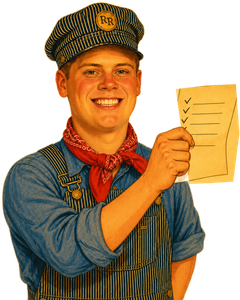
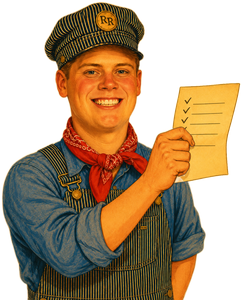
v0.9.851: fix mascot cutout - checklist paper now traced to its drawn outline; cache bump mca-v862
Claude-Session: https://claude.ai/code/session_01PwWu5K5uY8QeDTViwPaeBu

diff --git a/app/index.html b/app/index.html
@@ -20,9 +20,9 @@
   <link rel="manifest" href="manifest.json">
 <meta name="viewport" content="width=device-width, initial-scale=1.0, viewport-fit=cover">
 <title>The Rail Roster — Postwar Train Collection Tracker</title>
-<link rel="stylesheet" href="./app.css?v=850">
-<link rel="stylesheet" href="./tutorial.css?v=850">
-<link rel="stylesheet" href="./vault-styles.css?v=850">
+<link rel="stylesheet" href="./app.css?v=851">
+<link rel="stylesheet" href="./tutorial.css?v=851">
+<link rel="stylesheet" href="./vault-styles.css?v=851">
   <link rel="stylesheet" href="https://cdnjs.cloudflare.com/ajax/libs/cropperjs/1.6.1/cropper.min.css">
 </head>
 <body>
@@ -688,66 +688,66 @@ document.addEventListener('touchmove', function(){}, {passive: true});
 <!-- identify-modal is built dynamically by wizard.js -->
 </div>
 
-<script src="./config.js?v=850"></script>
-<script src="./cott-anchors.js?v=850"></script>
-<script src="./type-groups.js?v=850"></script>
-<script src="./back-stack.js?v=850"></script>
-<script src="./road-typeahead.js?v=850"></script>
-<script src="./a11y-config.js?v=850"></script>
-<script src="./a11y.js?v=850"></script>
-<script src="./wizard-utils.js?v=850"></script>
-<script src="./app.js?v=850"></script>
-<script src="./sheets.js?v=850"></script>
-<script src="./drive.js?v=850"></script>
-<script src="./backup.js?v=850"></script>
-<script src="./browse.js?v=850"></script>
-<script src="./dashboard.js?v=850"></script>
-<script src="./sheet-builder.js?v=850"></script>
+<script src="./config.js?v=851"></script>
+<script src="./cott-anchors.js?v=851"></script>
+<script src="./type-groups.js?v=851"></script>
+<script src="./back-stack.js?v=851"></script>
+<script src="./road-typeahead.js?v=851"></script>
+<script src="./a11y-config.js?v=851"></script>
+<script src="./a11y.js?v=851"></script>
+<script src="./wizard-utils.js?v=851"></script>
+<script src="./app.js?v=851"></script>
+<script src="./sheets.js?v=851"></script>
+<script src="./drive.js?v=851"></script>
+<script src="./backup.js?v=851"></script>
+<script src="./browse.js?v=851"></script>
+<script src="./dashboard.js?v=851"></script>
+<script src="./sheet-builder.js?v=851"></script>
 <script src="https://accounts.google.com/gsi/client" async defer></script>
-<script src="./wizard-pdlookup.js?v=850"></script>
-<script src="./wizard-suggestions.js?v=850"></script>
-<script src="./wizard-steps.js?v=850"></script>
-<script src="./wizard.js?v=850"></script>
-<script src="./wizard-photos.js?v=850"></script>
-<script src="./photo-crop.js?v=850"></script>
-<script src="./variation-picker.js?v=850"></script>
-<script src="./wizard-pickers.js?v=850"></script>
-<script src="./wizard-handlers.js?v=850"></script>
-<script src="./wizard-quickentry.js?v=850"></script>
-<script src="./wizard-save.js?v=850"></script>
-<script src="./app-misc.js?v=850"></script>
-<script src="./app-auth.js?v=850"></script>
-<script src="./app-setup.js?v=850"></script>
-<script src="./app-data.js?v=850"></script>
-<script src="./app-pages.js?v=850"></script>
-<script src="./app-collection.js?v=850"></script>
-<script src="./barcode.js?v=850"></script>
-<script src="./tutorial.js?v=850"></script>
-<script src="./tutorial-gifs-config.js?v=850"></script>
-<script src="./migration-config.js?v=850"></script>
-<script src="./migration-ui.js?v=850"></script>
-<script src="./onboarding-config.js?v=850"></script>
-<script src="./gmail-help.js?v=850"></script>
-<script src="./onboarding.js?v=850"></script>
-<script src="./vault.js?v=850"></script>
-<script src="./research.js?v=850"></script>
-<script src="./ai-id.js?v=850"></script>
-<script src="./era-badges-config.js?v=850"></script>
-<script src="./era-badges.js?v=850"></script>
-<script src="./catalog-display-config.js?v=850"></script>
-<script src="./non-item-detail-config.js?v=850"></script>
-<script src="./item-search-filters-config.js?v=850"></script>
-<script src="./insurance-config.js?v=850"></script>
-<script src="./reports.js?v=850"></script>
-<script src="./report-export.js?v=850"></script>
-<script src="./report-library.js?v=850"></script>
-<script src="./prefs.js?v=850"></script>
-<script src="./tools.js?v=850"></script>
-    <script src="./contacts.js?v=850"></script>  <!-- contacts hook -->
+<script src="./wizard-pdlookup.js?v=851"></script>
+<script src="./wizard-suggestions.js?v=851"></script>
+<script src="./wizard-steps.js?v=851"></script>
+<script src="./wizard.js?v=851"></script>
+<script src="./wizard-photos.js?v=851"></script>
+<script src="./photo-crop.js?v=851"></script>
+<script src="./variation-picker.js?v=851"></script>
+<script src="./wizard-pickers.js?v=851"></script>
+<script src="./wizard-handlers.js?v=851"></script>
+<script src="./wizard-quickentry.js?v=851"></script>
+<script src="./wizard-save.js?v=851"></script>
+<script src="./app-misc.js?v=851"></script>
+<script src="./app-auth.js?v=851"></script>
+<script src="./app-setup.js?v=851"></script>
+<script src="./app-data.js?v=851"></script>
+<script src="./app-pages.js?v=851"></script>
+<script src="./app-collection.js?v=851"></script>
+<script src="./barcode.js?v=851"></script>
+<script src="./tutorial.js?v=851"></script>
+<script src="./tutorial-gifs-config.js?v=851"></script>
+<script src="./migration-config.js?v=851"></script>
+<script src="./migration-ui.js?v=851"></script>
+<script src="./onboarding-config.js?v=851"></script>
+<script src="./gmail-help.js?v=851"></script>
+<script src="./onboarding.js?v=851"></script>
+<script src="./vault.js?v=851"></script>
+<script src="./research.js?v=851"></script>
+<script src="./ai-id.js?v=851"></script>
+<script src="./era-badges-config.js?v=851"></script>
+<script src="./era-badges.js?v=851"></script>
+<script src="./catalog-display-config.js?v=851"></script>
+<script src="./non-item-detail-config.js?v=851"></script>
+<script src="./item-search-filters-config.js?v=851"></script>
+<script src="./insurance-config.js?v=851"></script>
+<script src="./reports.js?v=851"></script>
+<script src="./report-export.js?v=851"></script>
+<script src="./report-library.js?v=851"></script>
+<script src="./prefs.js?v=851"></script>
+<script src="./tools.js?v=851"></script>
+    <script src="./contacts.js?v=851"></script>  <!-- contacts hook -->
 <script src="https://cdnjs.cloudflare.com/ajax/libs/jspdf/2.5.1/jspdf.umd.min.js"></script>
 <script src="https://cdnjs.cloudflare.com/ajax/libs/cropperjs/1.6.1/cropper.min.js"></script>
-<script src="./share.js?v=850"></script>
-<script src="./sell.js?v=850"></script>
+<script src="./share.js?v=851"></script>
+<script src="./sell.js?v=851"></script>
 
 <script>
 // ── PWA Service Worker Registration (auto-update) ───────────────

diff --git a/app/config.js b/app/config.js
@@ -3,7 +3,7 @@
 // If more than one file needs a constant, it goes HERE.
 // ═══════════════════════════════════════════════════════════════
 
-const APP_VERSION = 'v0.9.850';
+const APP_VERSION = 'v0.9.851';
 
 // v0.9.699 (Brad's phantom-touch desktop): ONE authoritative "is this actually
 // a phone/tablet?" flag. Touch detection LIES on Windows PCs (pen/driver

diff --git a/app/sw.js b/app/sw.js
@@ -4,7 +4,7 @@
 // fetches fresh copies in the background for next load.
 // NEVER caches Google API, OAuth, or Sheets calls.
 
-const CACHE_NAME = 'mca-v861';
+const CACHE_NAME = 'mca-v862';
 
 const SHELL_FILES = [
   './index.html',
